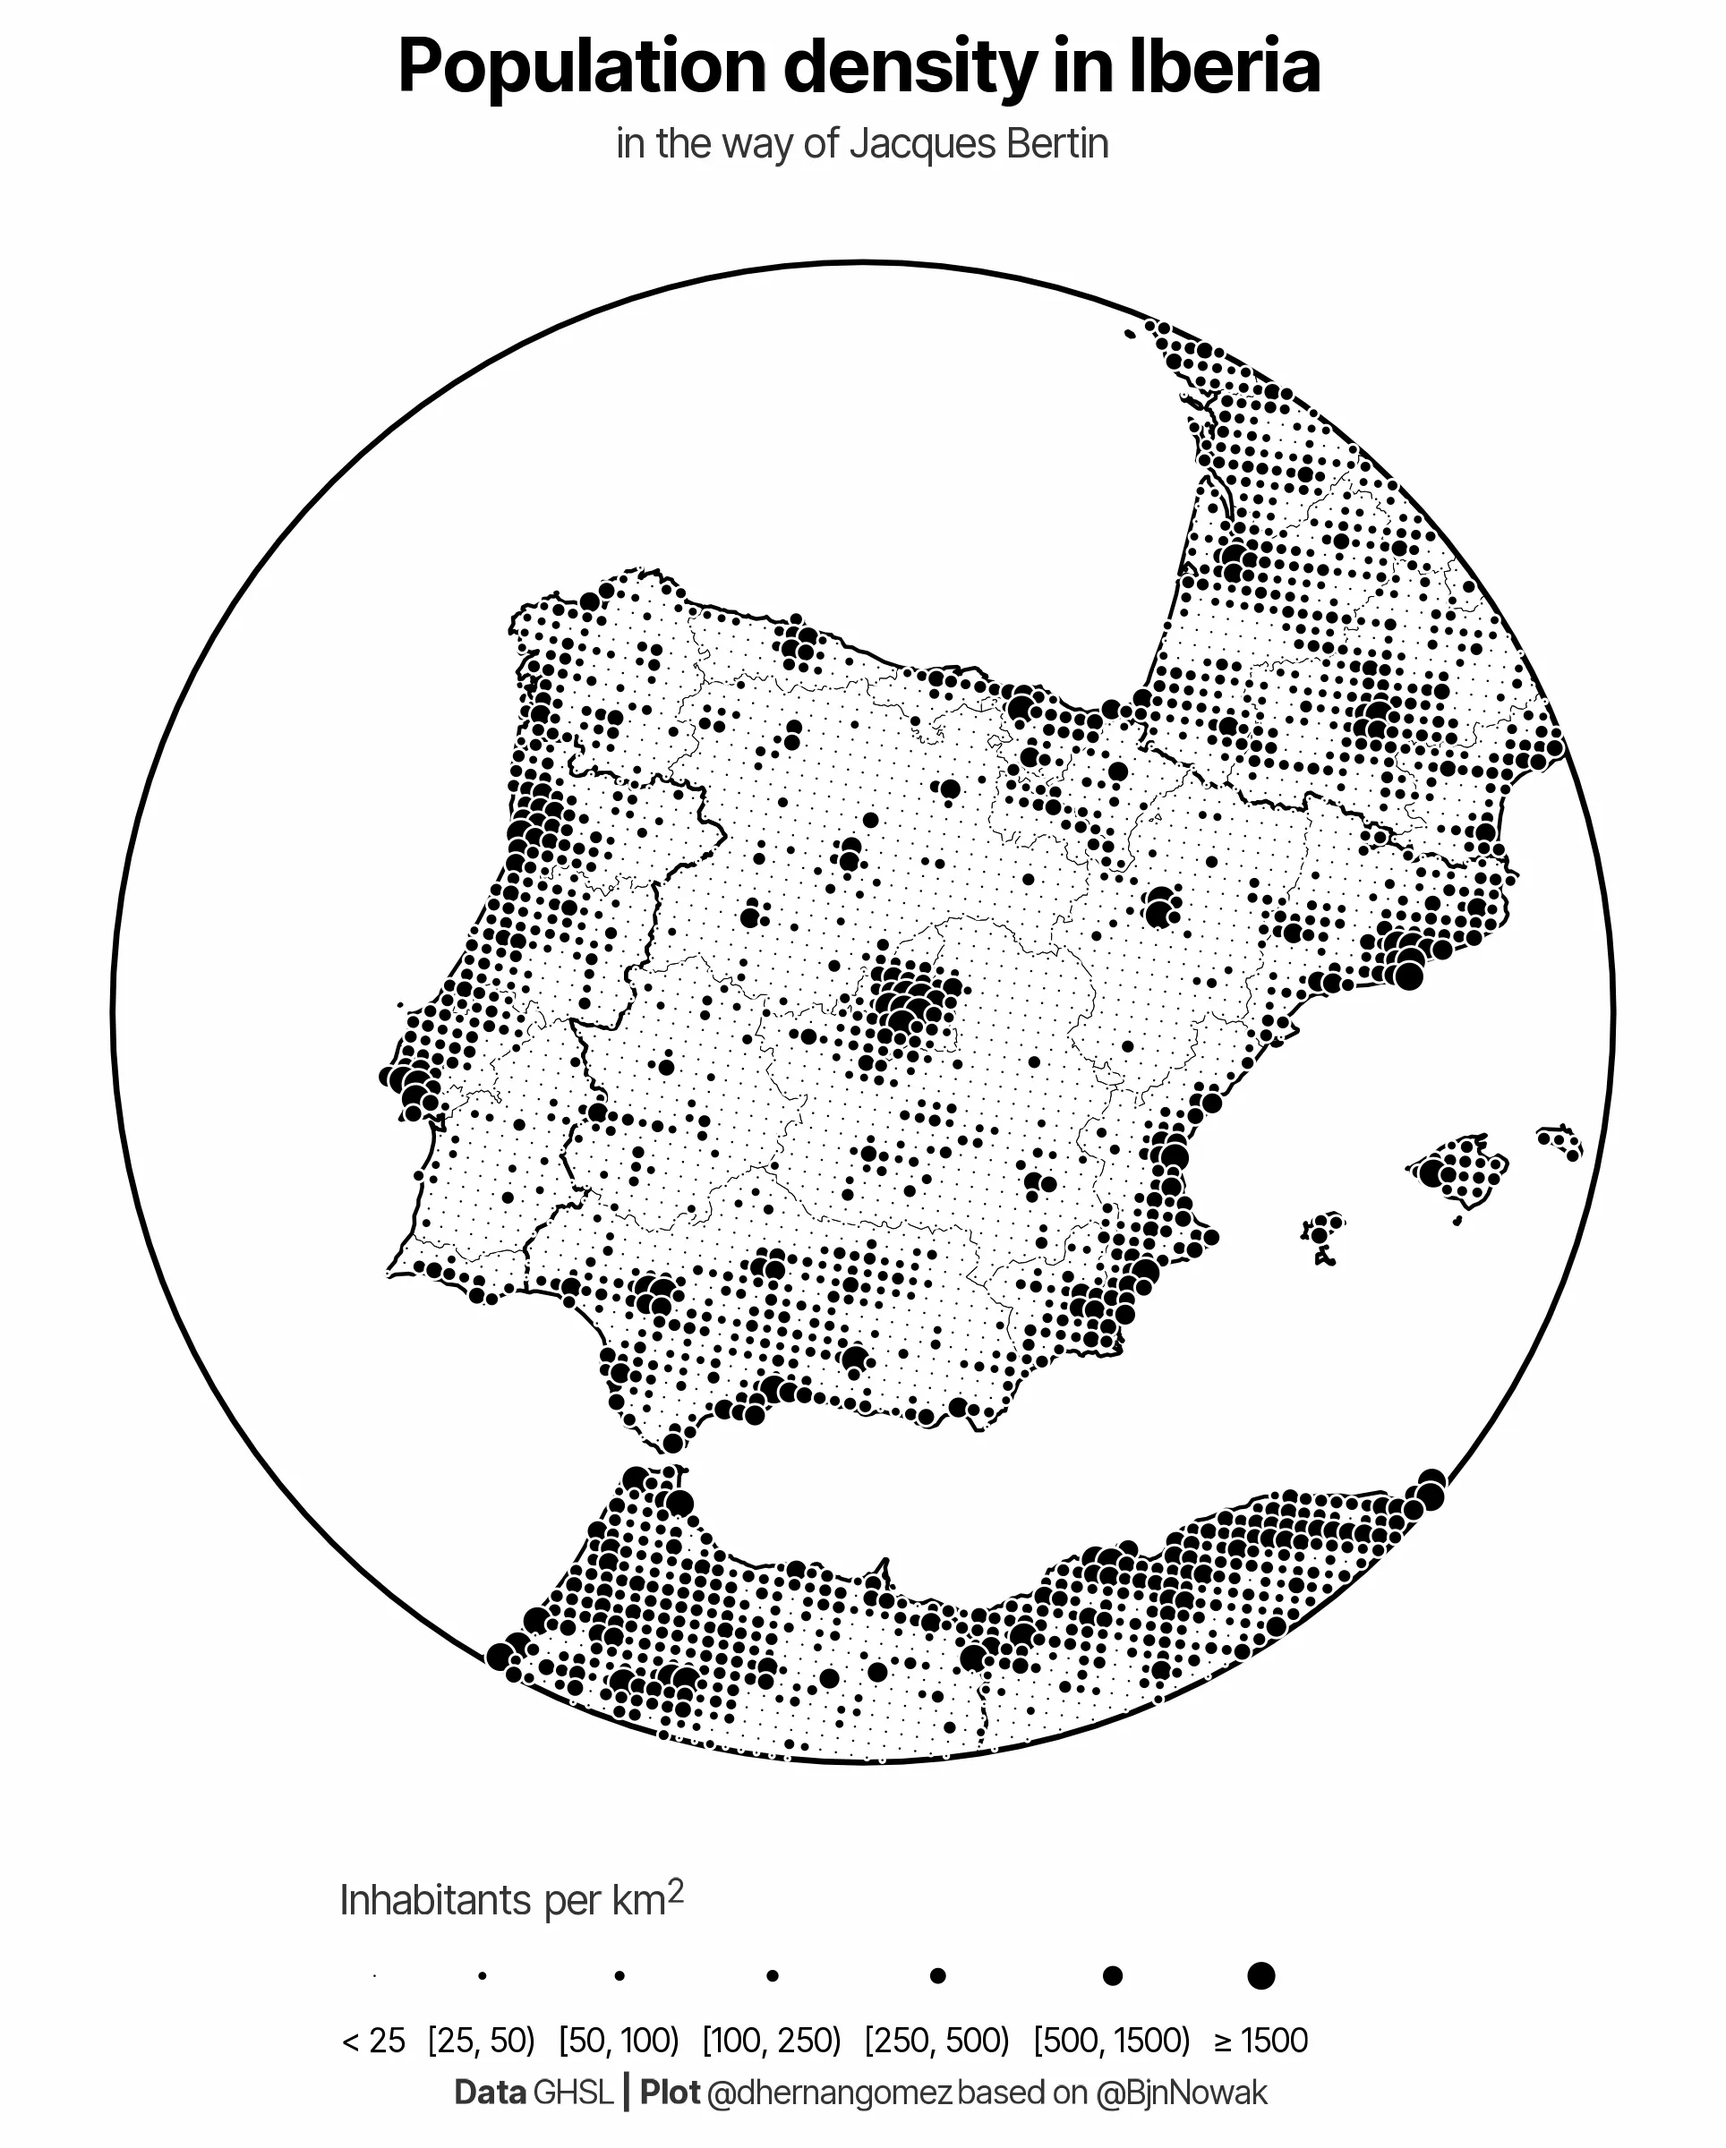
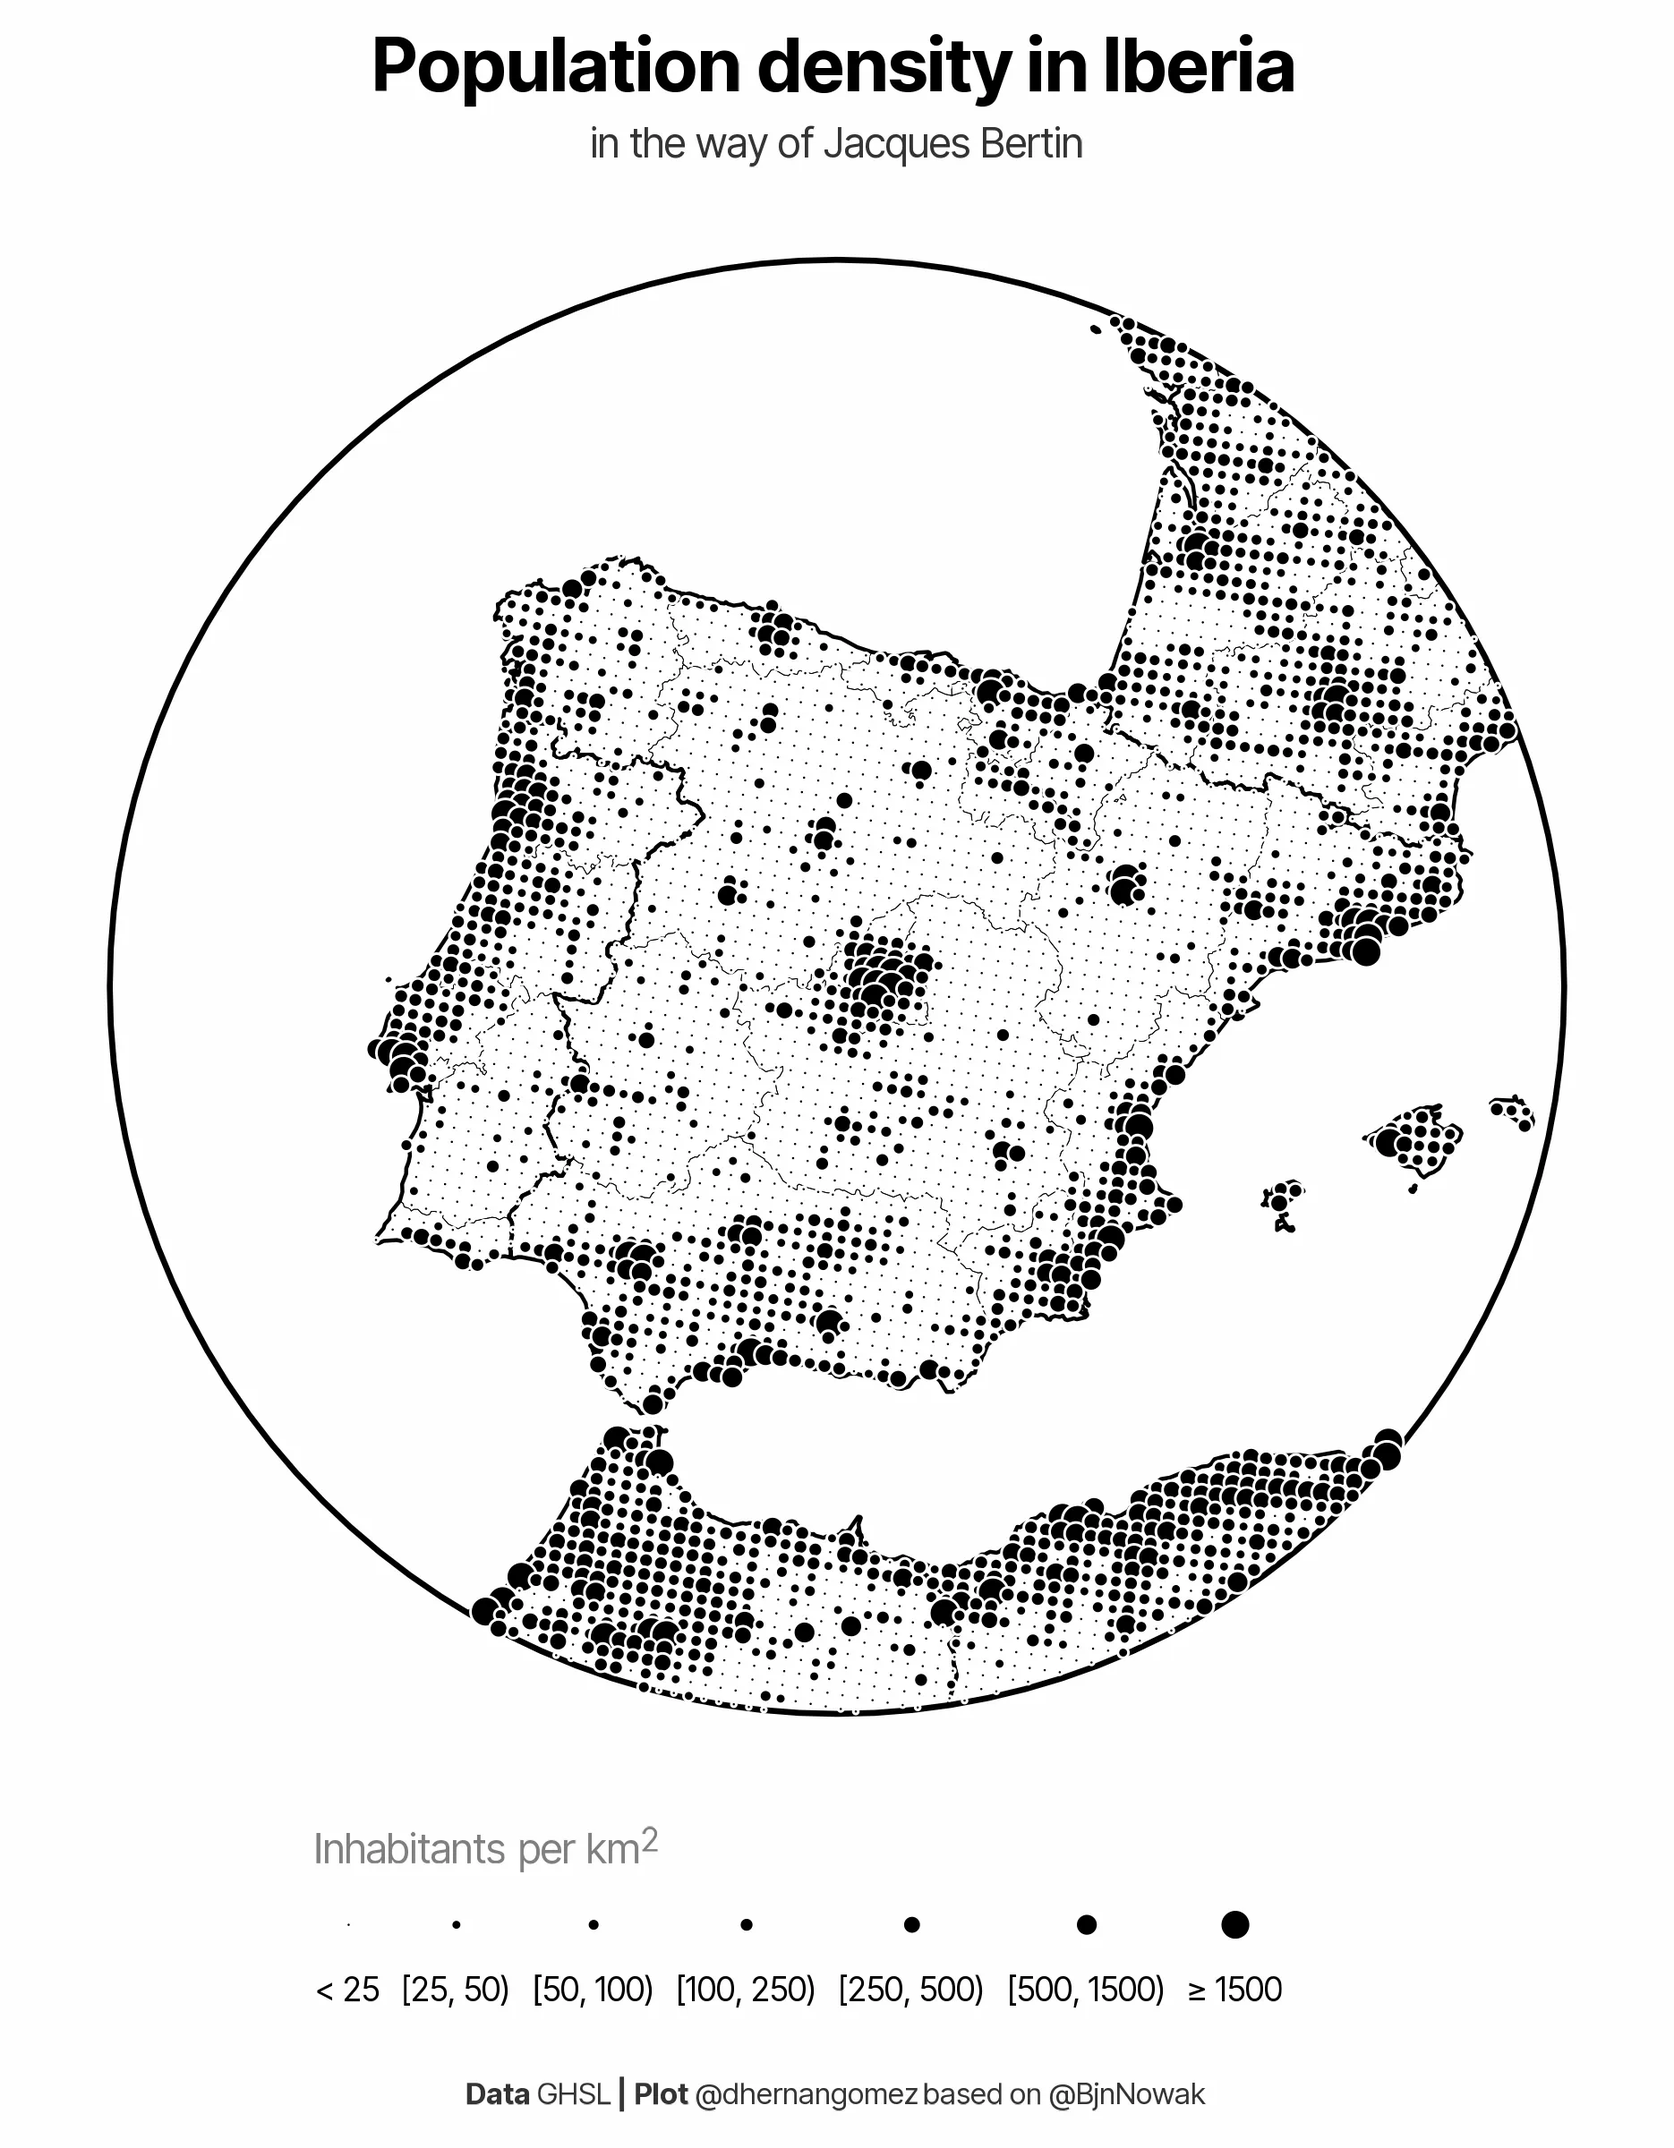
Update Bertin

diff --git a/collections/_posts/2023-12-16-bertin_dots.md b/collections/_posts/2023-12-16-bertin_dots.md
@@ -32,7 +32,7 @@ bibliography: bertin.bib
 description: >-
   Create Bertin-style dot density maps in R using Global Human Settlement
   Layer population data.
-og_image_width: 1928
+og_image_width: 1870
 og_image_height: 2400
 og_image_type: "image/webp"
 og_image_alt: >-
@@ -164,16 +164,11 @@ if (!file.exists(fname)) {
 }
 zip_content <- unzip(fname, list = TRUE)
 zip_content
-#>                                                 Name    Length
-#> 1     GHS_POP_E2030_GLOBE_R2023A_54009_1000_V1_0.tif 263188307
-#> 2 GHS_POP_E2030_GLOBE_R2023A_54009_1000_V1_0.tif.ovr  88461532
-#> 3                         GHSL_Data_Package_2023.pdf  15139500
-#> 4           GHS_POP_GLOBE_R2023A_input_metadata.xlsx    137963
-#>                  Date
-#> 1 2023-04-28 21:11:00
-#> 2 2023-04-28 21:11:00
-#> 3 2024-09-24 10:40:00
-#> 4 2023-04-30 10:42:00
+#>                                                 Name    Length                Date
+#> 1     GHS_POP_E2030_GLOBE_R2023A_54009_1000_V1_0.tif 263188307 2023-04-28 21:11:00
+#> 2 GHS_POP_E2030_GLOBE_R2023A_54009_1000_V1_0.tif.ovr  88461532 2023-04-28 21:11:00
+#> 3                         GHSL_Data_Package_2023.pdf  15139500 2024-09-24 10:40:00
+#> 4           GHS_POP_GLOBE_R2023A_input_metadata.xlsx    137963 2023-04-30 10:42:00
 
 # Unzip
 unzip(fname, exdir = "~/R/mapslib/GHS", junkpaths = TRUE, overwrite = FALSE)
@@ -256,6 +251,24 @@ And finally, the map. In this case, I save it as a high-resolution square map.
 
 ``` r
 # Final plot
+
+theme_bertin <- theme(
+  legend.position = "bottom",
+  legend.margin = margin(r = 20, unit = "pt"),
+  legend.title = element_markdown(colour = "grey50"),
+  legend.key.width = unit(50, "pt"),
+  plot.title = element_markdown(hjust = 0.5, size = 20),
+  plot.subtitle = element_text(hjust = 0.5, color = "grey20"),
+  plot.caption = element_markdown(
+    color = "grey20", hjust = .5, size = 8, margin = margin(t = 20)
+  ),
+  axis.line = element_blank(),
+  axis.ticks = element_blank(),
+  axis.text = element_blank(),
+  panel.grid = element_blank(),
+  panel.background = element_rect(fill = background),
+)
+
 final_plot <- base_gg +
   # Layer, this object is a SpatVector instead of sf object
   geom_spatvector(
@@ -285,20 +298,7 @@ final_plot <- base_gg +
   ) +
   # This CRS for representation only
   coord_sf(expand = TRUE, crs = 3035) +
-  theme(
-    legend.position = "bottom",
-    legend.margin = margin(r = 20, unit = "pt"),
-    legend.title = element_markdown(colour = "grey20"),
-    legend.key.width = unit(50, "pt"),
-    plot.title = element_markdown(hjust = 0.5, size = 20),
-    plot.subtitle = element_text(hjust = 0.5, color = "grey20"),
-    plot.caption = element_markdown(color = "grey20", hjust = .5),
-    axis.line = element_blank(),
-    axis.ticks = element_blank(),
-    axis.text = element_blank(),
-    panel.grid = element_blank(),
-    panel.background = element_rect(fill = background),
-  )
+  theme_bertin
 
 final_plot
 ```
@@ -452,20 +452,8 @@ final_plot_hex <- base_gg +
   ) +
   # This CRS for representation only
   coord_sf(expand = TRUE, crs = 3035) +
-  theme(
-    legend.position = "bottom",
-    legend.margin = margin(r = 20, unit = "pt"),
-    legend.title = element_markdown(colour = "grey20"),
-    legend.key.width = unit(50, "pt"),
-    plot.title = element_markdown(hjust = 0.5, size = 20),
-    plot.subtitle = element_text(hjust = 0.5, color = "grey20"),
-    plot.caption = element_markdown(color = "grey20", hjust = .5),
-    axis.line = element_blank(),
-    axis.ticks = element_blank(),
-    axis.text = element_blank(),
-    panel.grid = element_blank(),
-    panel.background = element_rect(fill = background),
-  )
+  theme_bertin
+
 final_plot_hex
 ```
 
